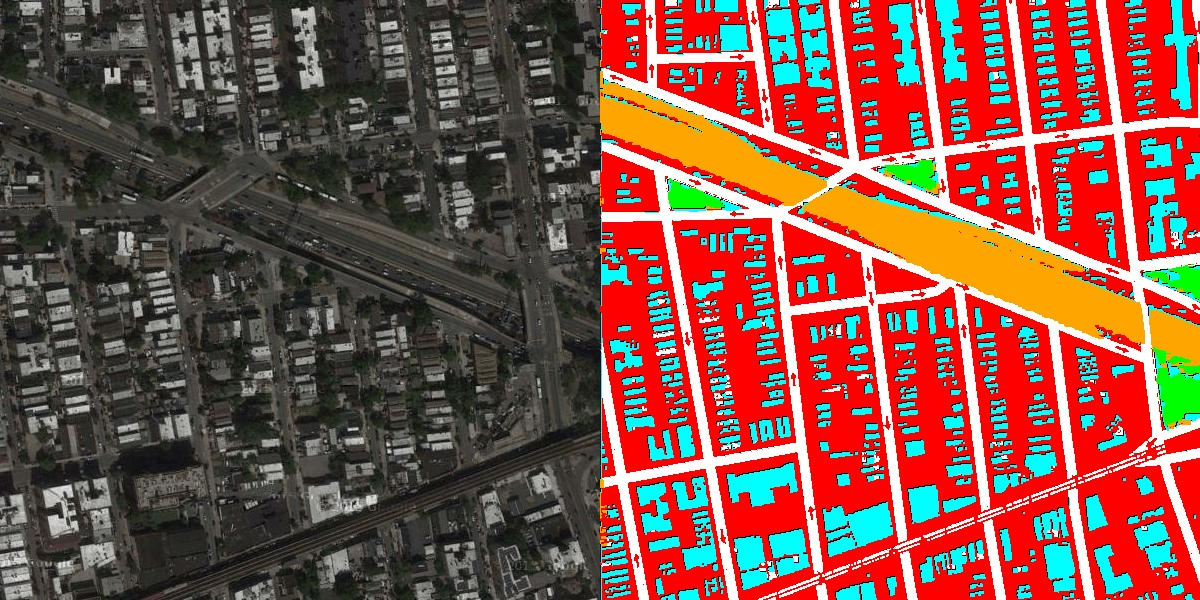
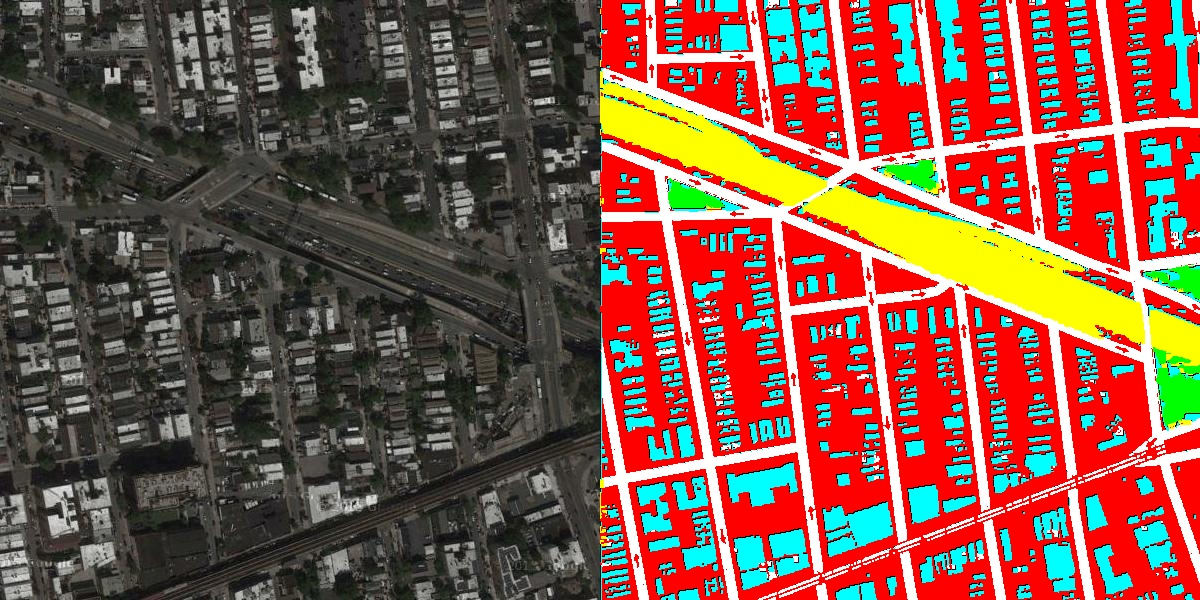
highway yellow and upload 5-12-23

Changed region(s): [[0.4933, 0.12, 1.0, 0.63], [0.9558, 0.69, 1.0, 0.72], [0.7708, 0.3, 0.8017, 0.33]]

diff --git a/test2.py b/test2.py
@@ -15,8 +15,6 @@ def getroad(input):
     kernel = np.ones((5, 5), np.uint8)
     closed = cv2.morphologyEx(road_mask, cv2.MORPH_CLOSE, kernel)
 
-
-
     # Remove small white dots in the black region
     kernel_open = np.ones((2, 2), np.uint8)
     closed = cv2.morphologyEx(closed, cv2.MORPH_OPEN, kernel_open, iterations=1)
@@ -33,13 +31,13 @@ def getroad(input):
 
 def gethighway(input):
     #Highway
-    lower_highway = np.array([10, 70, 100], dtype="uint8")
+    lower_highway = np.array([20, 70, 150], dtype="uint8")
     upper_highway = np.array([165, 255, 255], dtype="uint8")
 
 
     highway_mask = cv2.inRange(img, lower_highway, upper_highway)
 
-    kernel_highway= np.ones((2, 2), np.uint8)
+    kernel_highway= np.ones((1, 1), np.uint8)
     closed_mask_highway = cv2.morphologyEx(highway_mask, cv2.MORPH_CLOSE, kernel_highway, iterations=2)
     
     # Remove small white dots in the black region
@@ -47,10 +45,10 @@ def gethighway(input):
     closed = cv2.morphologyEx(closed_mask_highway, cv2.MORPH_OPEN, kernel_open, iterations=2)
 
     kernel_close = np.ones((1,1), np.uint8)
-    result_highway = cv2.morphologyEx(closed, cv2.MORPH_CLOSE, kernel_close, iterations=3)
+    result_highway = cv2.morphologyEx(closed, cv2.MORPH_CLOSE, kernel_close, iterations=2)
 
     kernel_dilate = np.ones((2, 2), np.uint8)  # You can adjust the kernel size as needed
-    expanded_highway = cv2.dilate(result_highway, kernel_dilate, iterations=5)
+    expanded_highway = cv2.dilate(result_highway, kernel_dilate, iterations=4)
 
     backtorgb_highway = cv2.cvtColor(expanded_highway,cv2.COLOR_GRAY2RGB)
 
@@ -211,9 +209,9 @@ def getblack(input): #black should be buildings rest
     black_hsv = cv2.cvtColor(input, cv2.COLOR_BGR2HSV)
     black_mask = cv2.inRange(black_hsv, lower_black, upper_black)
 
-    kernel_black= np.ones((2, 2), np.uint8)
-    closed_mask_black = cv2.morphologyEx(black_mask, cv2.MORPH_CLOSE, kernel_black)
-    backtorgb_black = cv2.cvtColor(closed_mask_black,cv2.COLOR_GRAY2RGB)
+    #kernel_black= np.ones((2, 2), np.uint8)
+    #closed_mask_black = cv2.morphologyEx(black_mask, cv2.MORPH_CLOSE, kernel_black)
+    backtorgb_black = cv2.cvtColor(black_mask,cv2.COLOR_GRAY2RGB)
 
     backtorgb_black[np.all(backtorgb_black == (255, 255, 255), axis=-1)] = (255,255,0) #this is in bgr!
     return backtorgb_black
@@ -261,13 +259,12 @@ def addtobase(img1, img_changed):
     return img1
 # Read the image
 
-test = input("input the amount of images you wish to process")
-test2 = input("input the starting index")
-x = range(int(test)+1)
+test = input("input the amount of images you wish to process: ")
+test2 = input("input the starting index: ")
+x = range(int(test))
 for n in x:
     index:int = int(test2)+n
     img = cv2.imread("maps\\maps\\train\\"+str(index)+".jpg")
-    
     road = getroad(img)
     highway = gethighway(img)
     roadandhighway = combine_highway_and_road(highway, road)
@@ -285,14 +282,11 @@ for n in x:
     #cv2.imshow('Base Image', cv2.imread("maps\\maps\\train\\"+str(index)+".jpg"))
     #cv2.imshow("Buildings", final2)
 
+    #cv2.waitKey(0)
+    #cv2.destroyAllWindows()
+
     # SAVING
     savingpath = "maps\\maps\\train_processed\\"+str(index)+".jpg"
     cv2.imwrite(savingpath, final2)
 
-    #cv2.waitKey(0)
-    #cv2.destroyAllWindows()
-
-
-#TODO
-#BROWN ROADS CANT REALLY BE FOUND YET
-#BLACK = URBAN?/HOUSING -> REST
+    
